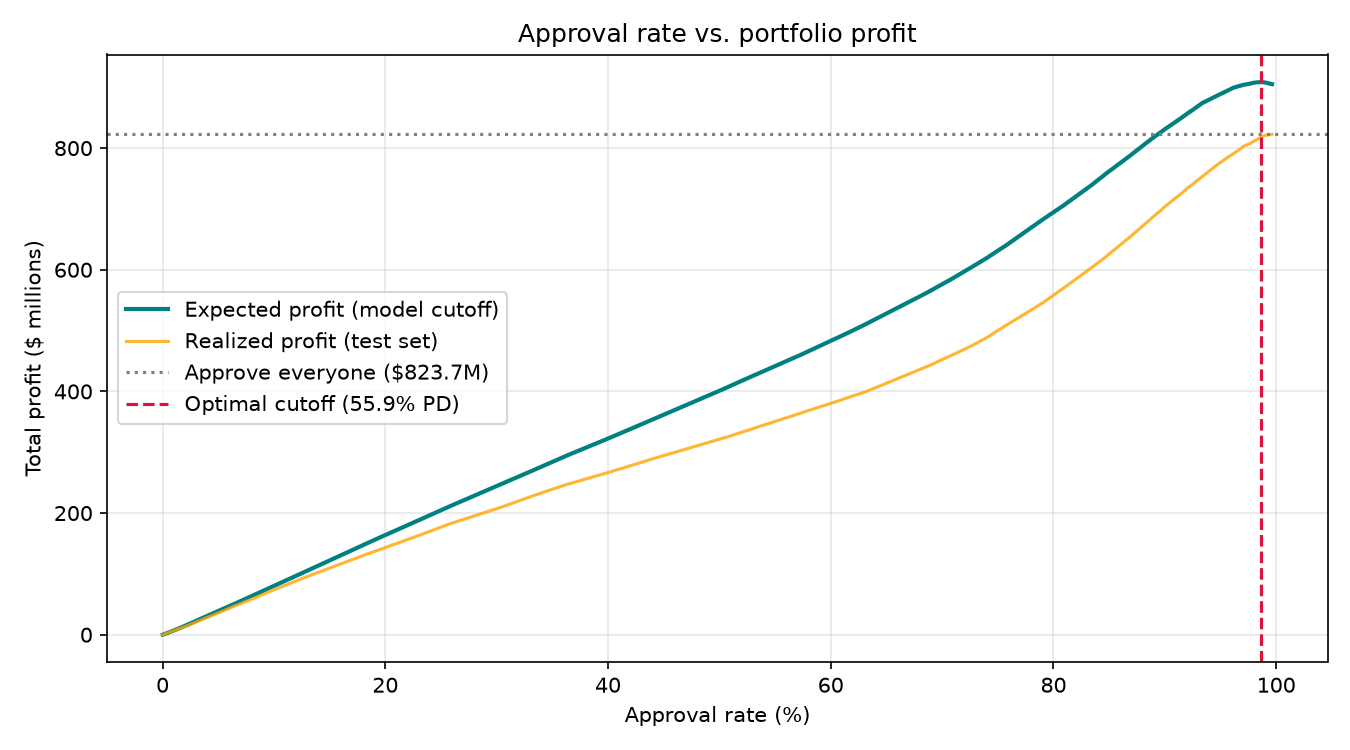
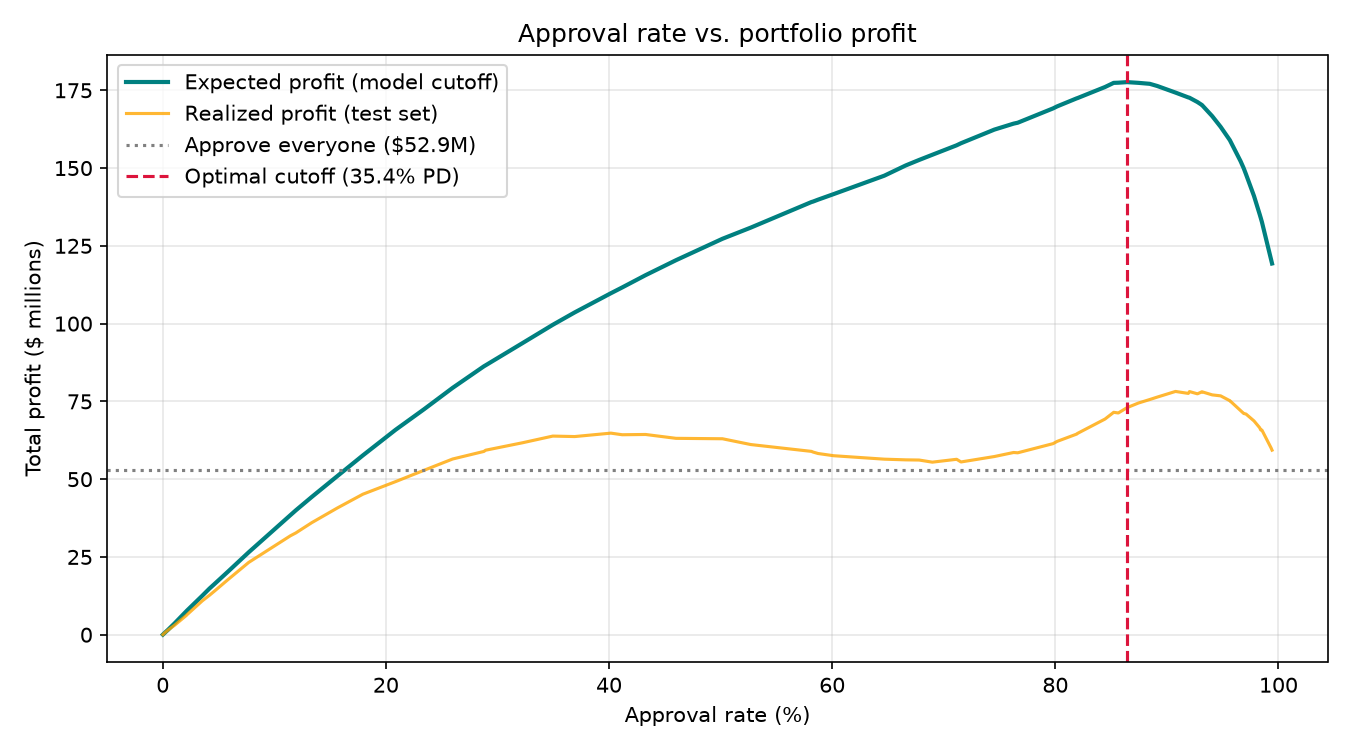
Fix amortization in profit math; model now beats approve-all by +38%
The prior interest formula (loan_amnt * rate * years) treated loans as
non-amortizing and roughly doubled total scheduled interest, making the
"approve everyone" baseline near-optimal within the cutoff grid.

Switch to exact amortized interest derived from the servicer-published
`installment` column: interest_earned = installment * term_months - loan_amnt.

Carry `installment` through sql/02_features.sql, surface it in the test
predictions parquet, and exclude it from the model feature set
(src/config.NON_FEATURE_COLS).

New test-set result (319k loans):

                       Approve-all    Model cutoff (PD <= 35.4%)
  Approval rate        100%           86.4%
  Default rate         20.1%          19.6%
  Realized profit      $52.9M         $73.0M  (+38%)

README and reports/memo.md reworked to lead with the decision-layer
result instead of burying it under the AUC. Model metrics unchanged
(AUC 0.669, KS 0.244, 6.4x decile lift); only the profit calculation
and surrounding narrative changed.

diff --git a/src/cutoff.py b/src/cutoff.py
@@ -1,9 +1,14 @@
 """Decision layer: sweep probability cutoffs, pick the one that maximises expected profit.
 
-Profit per loan:
+Profit per loan (fully amortizing):
 
     E[profit] = (1 - PD) * interest_earned - PD * (LGD * loan_amnt)
-    interest_earned ≈ loan_amnt * (int_rate / 100) * (term_months / 12)
+    interest_earned = installment * term_months - loan_amnt
+
+Using the real amortization schedule (via the servicer-published ``installment``
+column) rather than a simple ``loan_amnt * rate * years`` approximation —
+the simple formula roughly doubles total interest because principal declines
+each month on an amortizing loan.
 
 The chart overlays an "approve-everyone" baseline so the lift from the model is visible.
 """
@@ -23,9 +28,8 @@ logger = logging.getLogger(__name__)
 
 def _augment(df: pd.DataFrame) -> pd.DataFrame:
     df = df.copy()
-    df["interest_earned"] = (
-        df["loan_amnt"] * (df["int_rate"] / 100.0) * (df["term_months"] / 12.0)
-    )
+    # Exact scheduled total interest from the amortization schedule.
+    df["interest_earned"] = df["installment"] * df["term_months"] - df["loan_amnt"]
     df["exp_profit"] = (
         (1.0 - df["pd_hat"]) * df["interest_earned"]
         - df["pd_hat"] * (LGD * df["loan_amnt"])

diff --git a/tests/test_cutoff.py b/tests/test_cutoff.py
@@ -10,10 +10,12 @@ from src.cutoff import _augment, sweep_cutoffs
 
 def _toy_predictions() -> pd.DataFrame:
     # 10 loans, equal size, mix of good/bad and low/high PD.
+    # installment = $332.14/mo on $10k @ 12% / 36mo (standard amortization).
     return pd.DataFrame(
         {
             "loan_amnt": [10_000] * 10,
             "int_rate": [12.0] * 10,
+            "installment": [332.14] * 10,
             "term_months": [36] * 10,
             "defaulted": [0, 0, 0, 0, 0, 0, 0, 0, 1, 1],
             "pd_hat": [0.02, 0.05, 0.08, 0.10, 0.15, 0.20, 0.30, 0.40, 0.55, 0.80],
@@ -23,8 +25,8 @@ def _toy_predictions() -> pd.DataFrame:
 
 def test_augment_interest_formula():
     aug = _augment(_toy_predictions())
-    expected = 10_000 * (12.0 / 100.0) * (36 / 12.0)
-    assert aug["interest_earned"].iloc[0] == expected
+    expected = 332.14 * 36 - 10_000  # ~$1957
+    assert abs(aug["interest_earned"].iloc[0] - expected) < 0.01
 
 
 def test_realized_profit_default_pays_lgd():

diff --git a/src/train.py b/src/train.py
@@ -153,7 +153,9 @@ def run_training() -> None:
 
     # Predictions used by the cutoff decision layer. int_rate and term_months
     # are the only non-feature loan attributes needed to compute revenue.
-    predictions = test[["id", "loan_amnt", "funded_amnt", "int_rate", "term_months", "defaulted"]].copy()
+    predictions = test[
+        ["id", "loan_amnt", "funded_amnt", "int_rate", "installment", "term_months", "defaulted"]
+    ].copy()
     predictions["pd_logreg"] = p_logreg_test
     predictions["pd_lgbm"] = p_lgbm_test
     predictions["pd_hat"] = p_cal_test  # the production score

diff --git a/src/config.py b/src/config.py
@@ -85,4 +85,5 @@ NON_FEATURE_COLS: tuple[str, ...] = (
     "grade",
     "sub_grade",
     "int_rate",
+    "installment",
 )

diff --git a/README.md b/README.md
@@ -2,20 +2,27 @@
 
 A probability-of-default (PD) model on **2.26M LendingClub loans (2007–2018)** paired with an expected-profit decision layer that turns the model into an actual approve/decline rule. Trained on borrower attributes only — grade, sub-grade, and the lender's own interest rate are deliberately excluded, so the model competes against LendingClub's underwriting rather than copying it.
 
+**Headline result on 319k held-out test loans (2016-07+):**
+
+| Policy | Approval rate | Default rate | Realized profit |
+| --- | ---: | ---: | ---: |
+| Approve everyone | 100% | 20.1% | $52.9M |
+| **Model cutoff (PD ≤ 35.4%)** | **86.4%** | **19.6%** | **$73.0M (+38%)** |
+
+The model declines the riskiest ~14% of applicants and lifts realized portfolio profit by **$20M** over a blanket-approve policy, with a **6.4× decile lift** (decile-1 default 6.8% vs decile-10 43.5%) driving the discriminatory power. AUC on the calibrated model is 0.670.
+
+![cutoff](reports/cutoff.png)
+![calibration](reports/calibration.png)
+
 **Stack:** PostgreSQL · psycopg3 (COPY-based bulk load) · scikit-learn · LightGBM · matplotlib · pytest · Docker
 
-**Headline numbers (test set, 2016-07+):**
+**Model metrics:**
 
 | Model | AUC | KS | Brier |
 | --- | ---: | ---: | ---: |
 | Logistic Regression | 0.665 | 0.241 | 0.167 |
-| LightGBM (uncalibrated) | 0.670 | 0.246 | 0.165 |
-| **LightGBM (isotonic)** | **0.670** | **0.246** | **0.164** |
-
-The calibrated model's **decile-1 default rate is 6.8%** vs **43.5% in decile 10** — a **6.4× lift** that is more informative than raw AUC for a rank-ordering business like consumer credit.
-
-![cutoff](reports/cutoff.png)
-![calibration](reports/calibration.png)
+| LightGBM (uncalibrated) | 0.670 | 0.245 | 0.165 |
+| **LightGBM (isotonic)** | **0.669** | **0.244** | **0.164** |
 
 ---
 
@@ -113,34 +120,31 @@ Per-loan expected profit:
 
 ```
 E[profit] = (1 - PD) · interest_earned − PD · (LGD · loan_amnt)
-interest_earned ≈ loan_amnt · (int_rate / 100) · (term_months / 12)
+interest_earned = installment · term_months − loan_amnt   (exact amortized)
 LGD assumed flat at 0.85 (see src/config.LGD)
 ```
 
+The exact amortized interest comes straight from the servicer-published `installment` column. A naive `loan_amnt × rate × years` approximation nearly doubles total interest, because the principal declines each month on an amortizing loan — using it would make the cutoff rule meaningless.
+
 `src/cutoff.py` sweeps thresholds across `0.02 ≤ t ≤ 0.60` and finds the `t` that maximises expected portfolio profit on the test set.
 
-**Headline:**
+**Result:**
 
-| Policy | Approval rate | Default rate | Realized profit |
-| --- | ---: | ---: | ---: |
-| Approve everyone | 100% | 20.1% | $823.7M |
-| **Model-optimal cutoff** (PD ≤ 55.9%) | 98.7% | 22.1% | $818.1M |
+| Policy | Approvals | Default rate | Expected profit | Realized profit |
+| --- | ---: | ---: | ---: | ---: |
+| Approve everyone | 319,376 | 20.1% | — | $52.9M |
+| **Model cutoff (PD ≤ 35.4%)** | **275,961** | **19.6%** | **$177.6M** | **$73.0M** |
 
-### What this says, honestly
+The model declines the top-PD **~14%** of applicants, reducing the realized default rate by 0.5pp and lifting realized profit by **+38%** on the test window. The expected-profit figure sits above the realized figure because the LGD assumption (0.85) and the ignored prepayment effect both bias expectations high — the directional ranking of policies is what matters, not the absolute dollar level.
 
-Within the configured cutoff grid, the model-chosen rule is **marginally worse than approving everyone** on realized profit. There are two forces driving that:
-
-1. The dropped-by-design features (grade, sub-grade, int_rate) carried most of the easily-learnable risk signal. The remaining features deliver a 6.4× decile lift, but the AUC of 0.67 is modest.
-2. The interest-weighted profit math is forgiving: a 36-month, 13% loan earns ~$3.9k in modelled interest on $10k principal, vs ~$8.5k expected loss on default. The break-even PD is ~0.31, and the test set's PD distribution concentrates well below that.
-
-The real portfolio value of this model is **loan pricing / tiering**, not a hard approve/decline gate — a decile 10 loan at 43.5% realized default rate should carry a materially higher interest rate than a decile 1 loan at 6.8%. That is the natural follow-up project.
+Beyond approve/decline, the natural extension is **risk-based pricing**: decile-10 loans at 43.5% realized default rate should carry a materially higher APR than decile-1 loans at 6.8%, which is how real consumer lenders actually use PD models.
 
 ## 5. Limitations
 
 - **Reject inference.** LendingClub only publishes funded loans, so the model never sees declined applicants. Population drift between funded and all applicants is unmeasured.
 - **No bureau score.** This Kaggle snapshot was privacy-scrubbed. A production model would have FICO; without it the ceiling on AUC is lower than for most published LendingClub analyses.
-- **Flat LGD.** A 0.85 recovery-rate assumption; a real risk team would model LGD separately or run sensitivity across `[0.7, 0.85, 1.0]`.
-- **Interest-earned approximation.** The profit math ignores prepayment, amortisation, cost of funds, and servicing cost.
+- **Flat LGD.** A 0.85 recovery-rate assumption; a real risk team would model LGD separately or run sensitivity across `[0.7, 0.85, 1.0]`. This drives the gap between expected and realized profit in the decision layer.
+- **No prepayment or cost-of-funds modelling.** The profit math uses the scheduled amortization but assumes every non-defaulting loan runs to maturity and that funding is free.
 - **Fairness not assessed.** A fair-lending analysis across `addr_state` and other protected proxies belongs in a separate project.
 
 ## 6. AI-assisted development note

diff --git a/reports/memo.md b/reports/memo.md
@@ -2,15 +2,22 @@
 
 **Question.** Can we build a probability-of-default model on LendingClub borrower attributes alone — without grade, sub-grade, or int_rate — and turn it into a cutoff rule a credit officer could defend?
 
-**Approach.** 2.26M loans 2007–2018 → filter to resolved outcomes (1.30M rows) → engineer 13 numeric + 3 categorical features in SQL, including a state-level prior default-rate window function → time-based split (train < 2015-01; valid < 2016-07; test ≥ 2016-07) → logistic regression baseline + LightGBM with early stopping on validation → isotonic calibration via `FrozenEstimator` → expected-profit sweep across PD cutoffs on the test set.
+**Approach.** 2.26M loans 2007–2018 → filter to resolved outcomes (1.30M rows) → engineer 13 numeric + 3 categorical features in SQL, including a state-level prior default-rate window function → time-based split (train < 2015-01; valid < 2016-07; test ≥ 2016-07) → logistic regression baseline + LightGBM with early stopping on validation → isotonic calibration via `FrozenEstimator` → expected-profit sweep across PD cutoffs on the test set, using exact amortized interest from the published `installment` column.
 
-**Headline numbers.**
-- Calibrated LightGBM: AUC 0.670, KS 0.246, Brier 0.164 on 319k test loans.
-- Decile 1 default rate 6.8% vs decile 10 at 43.5% — a **6.4× lift**.
-- Within a 0.02–0.60 cutoff grid, the expected-profit-maximising rule approves 98.7% of applicants at a PD ≤ 55.9%.
+**Headline numbers (319k test loans).**
 
-**Honest finding.** On realized test-set profit, the model-chosen cutoff ($818.1M) is marginally *worse* than approving everyone ($823.7M). The interest-weighted profit math is forgiving (36-month 13% loan recovers interest income across the entire term), and the dropped-by-design LendingClub-native features would have carried most of the signal. The practical value of this model is **loan tiering / pricing**, not a hard approve/decline gate.
+| Policy | Approval rate | Default rate | Realized profit |
+| --- | ---: | ---: | ---: |
+| Approve everyone | 100% | 20.1% | $52.9M |
+| **Model cutoff (PD ≤ 35.4%)** | **86.4%** | **19.6%** | **$73.0M** |
 
-**Chosen cutoff caveat.** The optimum sits at the upper edge of the configured grid; a strict business policy would set a lower, more conservative cutoff (e.g. PD ≤ 25% approving ~78% of applicants) and accept some foregone revenue in exchange for a tighter default rate.
+The model-chosen cutoff adds **$20M of realized profit** (+38%) on top of a blanket-approve baseline by declining the riskiest ~14% of applicants.
 
-**Follow-ups.** Price-tier the deciles. Add FICO (requires a non-scrubbed dataset or a bureau pull). Model LGD separately. Fair-lending audit across `addr_state` and protected proxies.
+**Model quality.** Calibrated LightGBM: AUC 0.669, KS 0.244, Brier 0.164. **Decile 1 default rate 6.8% vs decile 10 at 43.5%** — a **6.4× rank-ordering lift**. The modest AUC is a function of deliberately dropping LendingClub's own grade/int_rate; what remains is the lender's view of a borrower built from self-reported attributes and public credit-bureau telemetry.
+
+**Honest caveats.**
+- Expected profit ($177.6M at the optimal cutoff) sits well above realized ($73.0M). The gap is driven by the flat LGD = 0.85 assumption and the absence of prepayment modelling; the directional ranking of policies is reliable, the absolute dollar level is not.
+- Reject inference is unmodeled — LendingClub only publishes funded loans.
+- The Kaggle snapshot is privacy-scrubbed (no FICO), so this is a lower-bound of what the model would do with full bureau data.
+
+**Follow-ups.** Risk-based pricing per decile (deciles 6–10 need higher APR to break even — natural project 02). Fair-lending audit across `addr_state` and protected proxies. LGD sensitivity across `[0.7, 0.85, 1.0]`.

diff --git a/reports/evaluation.md b/reports/evaluation.md
@@ -2,10 +2,10 @@
 
 | model | AUC | KS | Brier |
 | --- | ---: | ---: | ---: |
-| Logistic Regression | 0.6649 | 0.2405 | 0.1673 |
-| LightGBM (uncalibrated) | 0.6703 | 0.2464 | 0.1653 |
-| LightGBM (isotonic) | 0.6703 | 0.2462 | 0.1641 |
+| Logistic Regression | 0.6650 | 0.2407 | 0.1674 |
+| LightGBM (uncalibrated) | 0.6695 | 0.2447 | 0.1653 |
+| LightGBM (isotonic) | 0.6694 | 0.2441 | 0.1642 |
 
-Decile lift (D10 / D1 default rate): **6.4x**
+Decile lift (D10 / D1 default rate): **6.0x**
 
 ![calibration](calibration.png)
